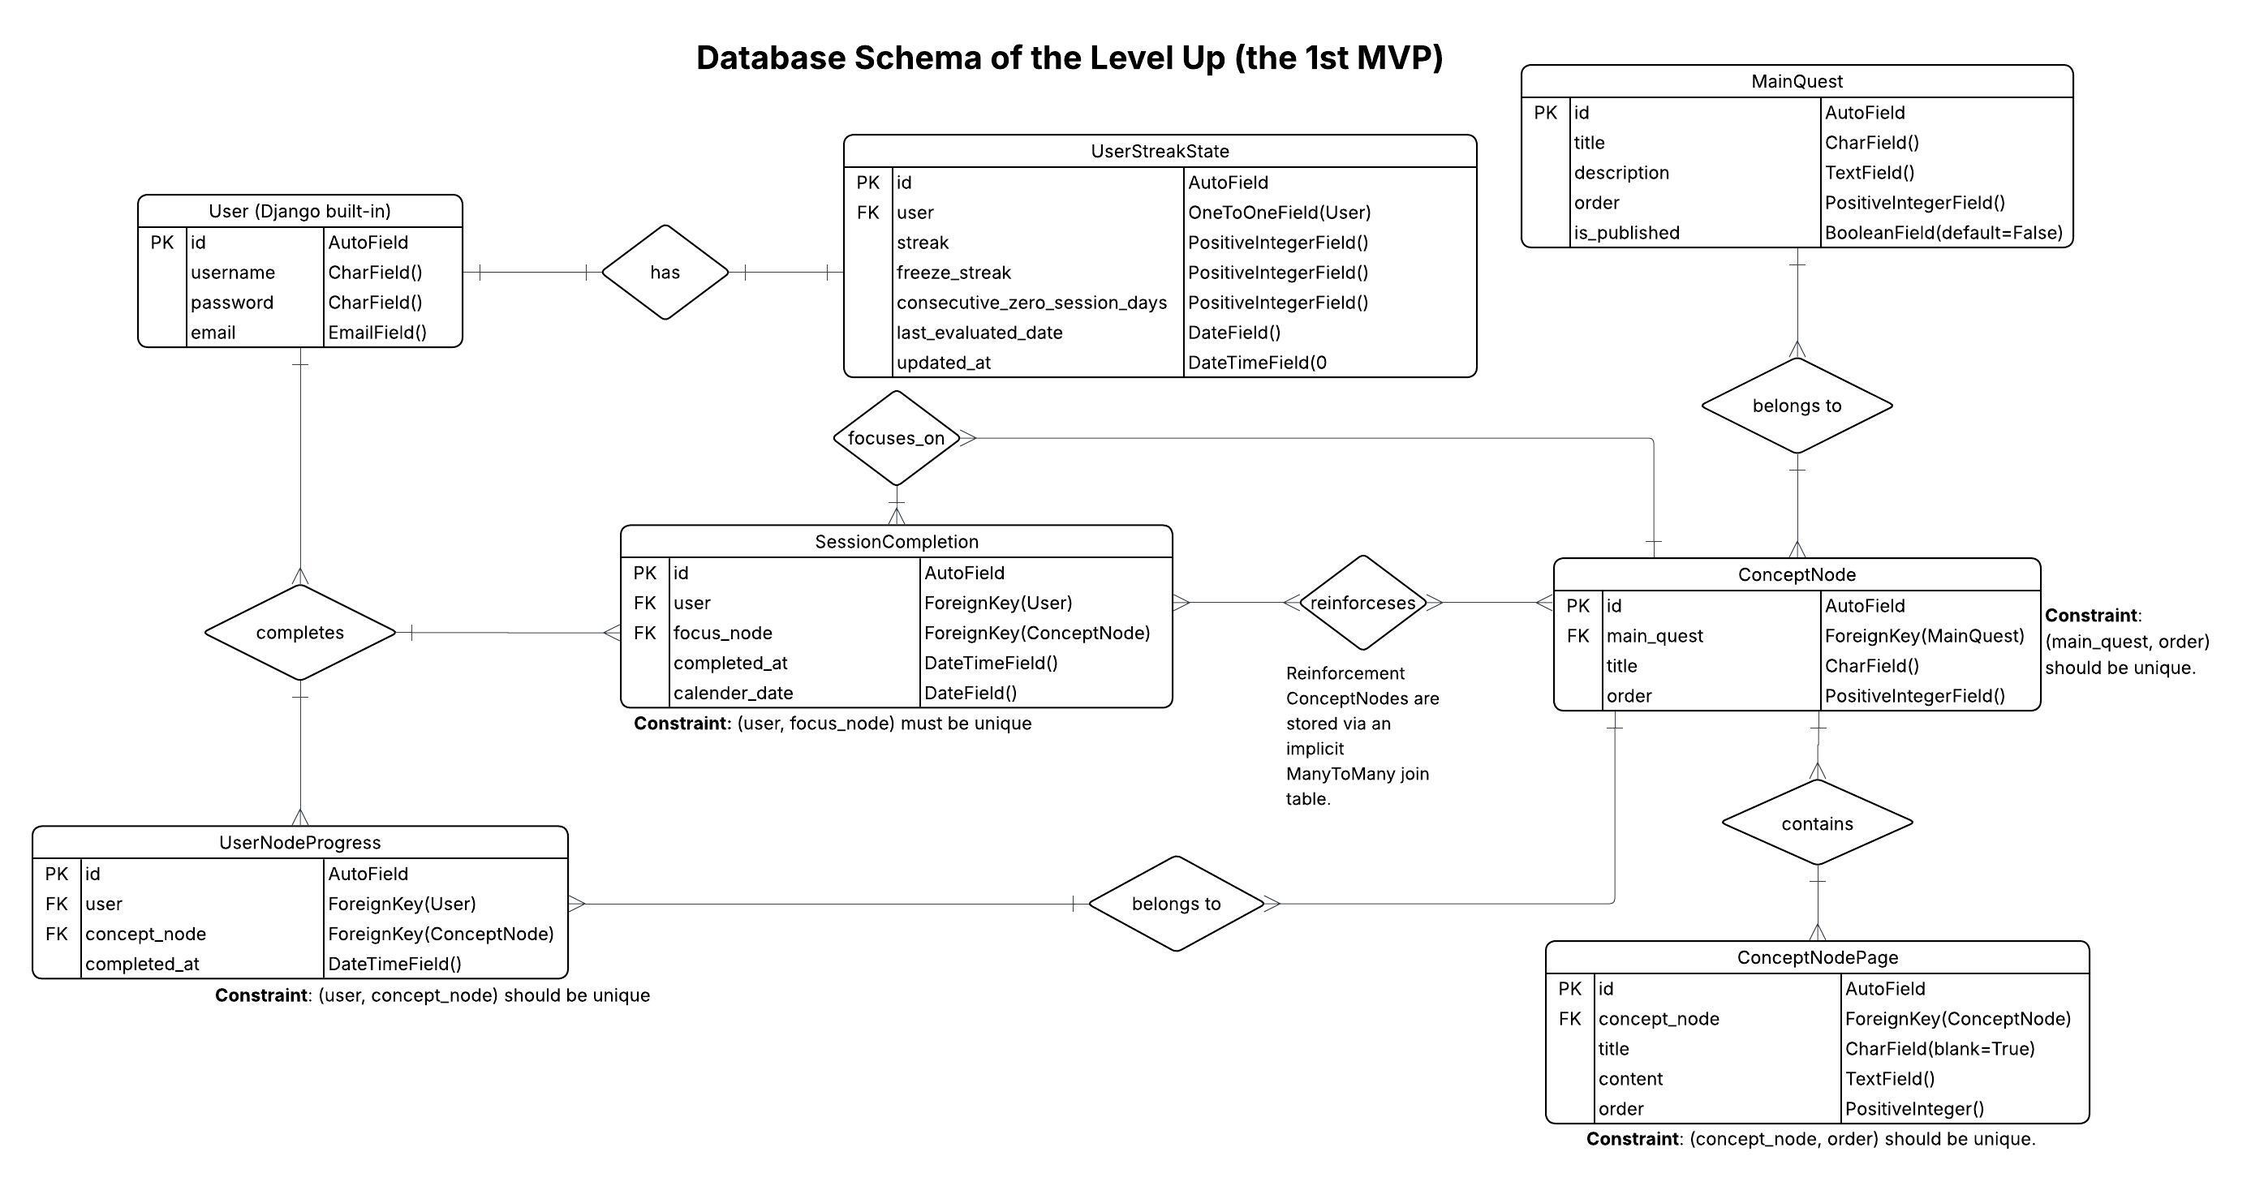
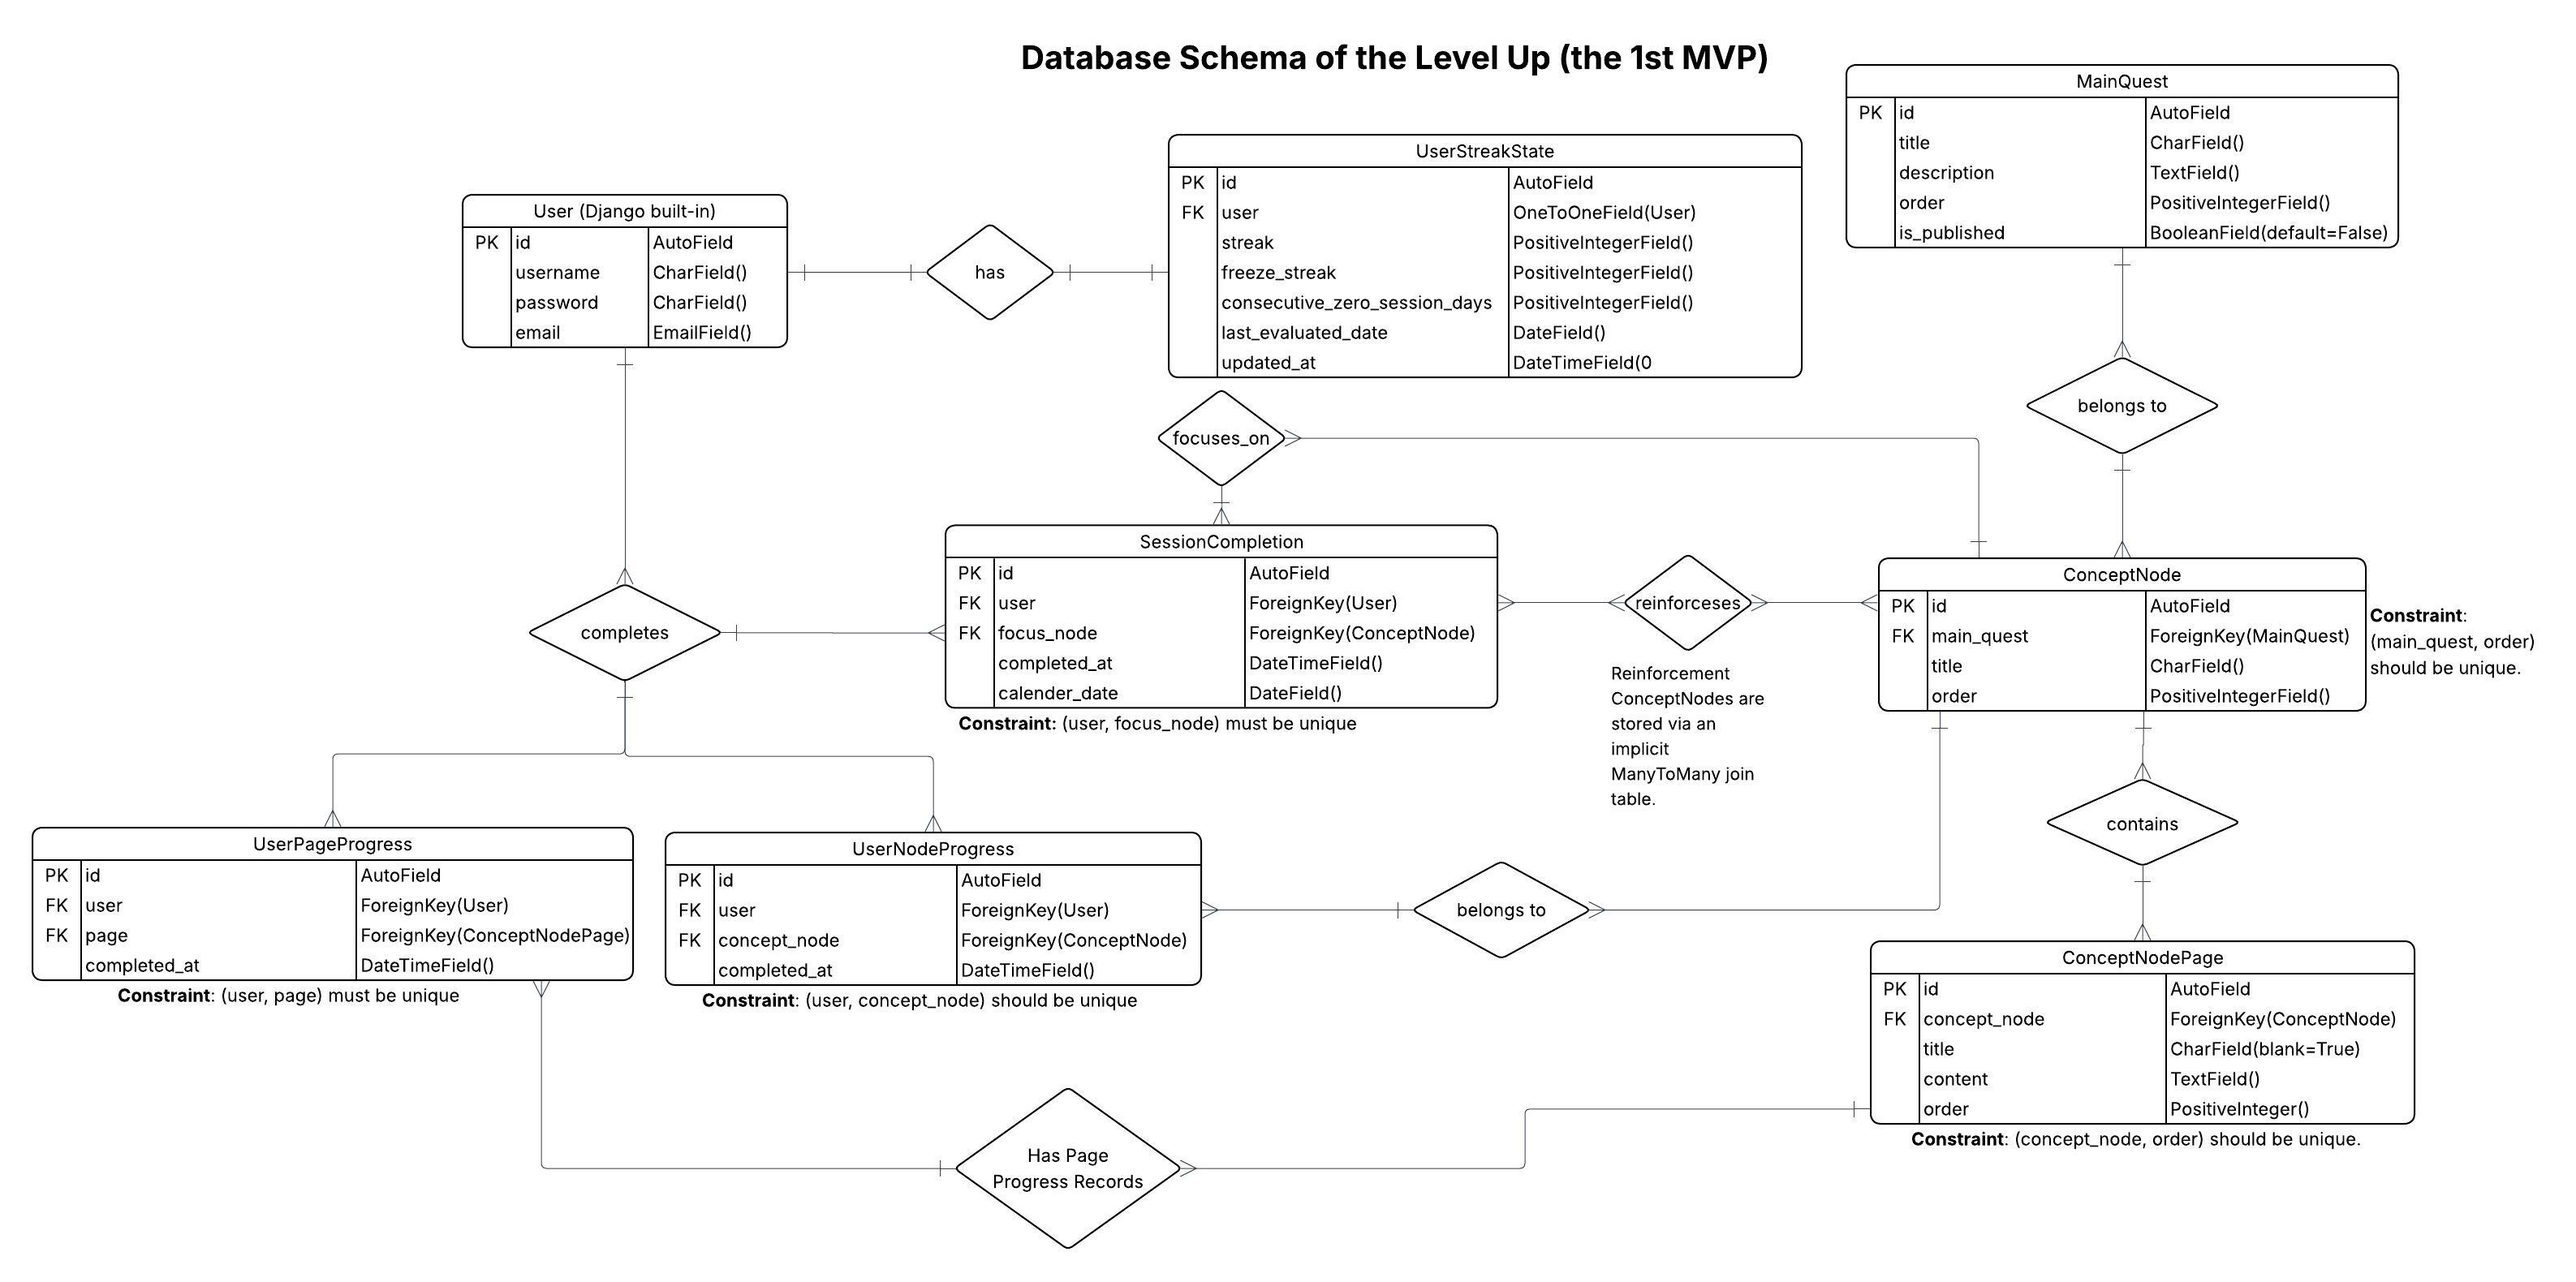
feat: add UserPageProgress model and page completion service with docs

diff --git a/progress/services/page_progression.py b/progress/services/page_progression.py
@@ -1,0 +1,62 @@
+from django.utils import timezone
+from django.db import transaction
+
+from content.models import ConceptNodePage
+from progress.models import  UserPageProgress, UserNodeProgress
+
+
+@transaction.atomic
+def complete_page(user, page_id):
+    """
+    Marks a ConceptNodePage as completed for a user.
+
+    Steps:
+    1. Validate the page exists.
+    2. Create a UserPageProgress record (if not already present).
+    3. Check whether all pages of the ConceptNode are completed.
+    4. If yes, create UserNodeProgress.
+    """
+
+    page = ConceptNodePage.objects.select_related("concept_node").get(id=page_id)
+
+    # Prevent duplicate completion
+    progress, created = UserPageProgress.objects.get_or_create(
+        user=user,
+        page=page,
+        defaults={"completed_at": timezone.now()}
+    )
+
+    if not created:
+        return {
+            "status": "already_completed",
+            "node_completed": False
+        }
+
+    concept_node = page.concept_node
+
+    total_pages = ConceptNodePage.objects.filter(
+        concept_node=concept_node
+    ).count()
+
+    completed_pages = UserPageProgress.objects.filter(
+        user=user,
+        page__concept_node=concept_node
+    ).count()
+
+    node_completed = False
+
+    if completed_pages == total_pages:
+
+        UserNodeProgress.objects.get_or_create(
+            user=user,
+            concept_node=concept_node,
+            defaults={"completed_at": timezone.now()}
+        )
+
+        node_completed = True
+
+    return {
+        "status": "page_completed",
+        "node_completed": node_completed,
+        "concept_node_id": concept_node.id
+    }

diff --git a/progress/migrations/0005_userpageprogress.py b/progress/migrations/0005_userpageprogress.py
@@ -1,0 +1,29 @@
+# Generated by Django 6.0 on 2026-03-15 08:29
+
+import django.db.models.deletion
+from django.conf import settings
+from django.db import migrations, models
+
+
+class Migration(migrations.Migration):
+
+    dependencies = [
+        ('content', '0001_initial'),
+        ('progress', '0004_alter_sessioncompletion_unique_together'),
+        migrations.swappable_dependency(settings.AUTH_USER_MODEL),
+    ]
+
+    operations = [
+        migrations.CreateModel(
+            name='UserPageProgress',
+            fields=[
+                ('id', models.BigAutoField(auto_created=True, primary_key=True, serialize=False, verbose_name='ID')),
+                ('completed_at', models.DateTimeField(auto_now_add=True)),
+                ('page', models.ForeignKey(on_delete=django.db.models.deletion.CASCADE, to='content.conceptnodepage')),
+                ('user', models.ForeignKey(on_delete=django.db.models.deletion.CASCADE, to=settings.AUTH_USER_MODEL)),
+            ],
+            options={
+                'constraints': [models.UniqueConstraint(fields=('user', 'page'), name='unique_user_page_progress')],
+            },
+        ),
+    ]

diff --git a/progress/models.py b/progress/models.py
@@ -3,6 +3,28 @@ from django.db import models
 # Create your models here.
 from django.contrib.auth.models import User # Using Django's built-in User model
 from quests.models import ConceptNode
+from content.models import ConceptNodePage
+
+
+class UserPageProgress(models.Model):
+    '''This model tracks the progress of a user on a specific ConceptNodePage.'''
+
+    user = models.ForeignKey(User, on_delete=models.CASCADE)
+
+    page = models.ForeignKey(
+        ConceptNodePage,
+        on_delete=models.CASCADE
+    )
+
+    completed_at = models.DateTimeField(auto_now_add=True)
+
+    class Meta:
+        constraints = [
+            models.UniqueConstraint(
+                fields=["user", "page"],
+                name="unique_user_page_progress"
+            )
+        ]
 
 
 class UserNodeProgress(models.Model):

diff --git a/progress/admin.py b/progress/admin.py
@@ -1,7 +1,7 @@
 from django.contrib import admin
 
 # Register your models here.
-from .models import UserNodeProgress, SessionCompletion, UserStreakState
+from .models import UserPageProgress, UserNodeProgress, SessionCompletion, UserStreakState
 
 admin.site.register(UserNodeProgress)
 
@@ -22,3 +22,5 @@ class UserStreakStateAdmin(admin.ModelAdmin):
         "updated_at",
     )
     readonly_fields = ("updated_at",)
+
+admin.site.register(UserPageProgress)

diff --git a/content/models.py b/content/models.py
@@ -5,6 +5,9 @@ from quests.models import ConceptNode
 
 
 class ConceptNodePage(models.Model):
+    '''This model represents a page of content associated with a ConceptNode. 
+    Each ConceptNode can have multiple pages, and each page has an order to determine its sequence within the ConceptNode.'''
+
     concept_node = models.ForeignKey( 
         ConceptNode,
         on_delete=models.CASCADE,

diff --git a/docs/page_completion.md b/docs/page_completion.md
@@ -1,0 +1,134 @@
+# Page Completion Service - [complet_page(user, page_id)]
+<br>
+
+## Overview
+- The Page Completion Service is responsible for recording when a user completes a learning page and determining whether the completion of that page results in the completion of the corresponding Concept Node.
+
+- This service belongs to the progress domain because it modifies user progress state rather than learning content.
+
+- The service operates on the page level of the learning hierarchy and forms the first step of the progression pipeline.
+
+## Learning Hierarchy
+
+- User learning progression follows the structure:
+
+    User
+    ↓
+    ConceptNodePage
+    ↓
+    ConceptNode
+    ↓
+    MainQuest
+
+- Progress is recorded at two levels:
+    - Page level → recorded in UserPageProgress
+    - Node level → recorded in UserNodeProgress
+- Page completion therefore acts as the trigger for node completion checks.
+
+## Responsibilities
+
+- The Page Completion Service performs four responsibilities.
+
+<B>1. Validate Page Existence</B>
+
+    - The service ensures that the requested page exists in the content system before recording progress.
+
+    - This prevents invalid progress records from being created.
+
+<B>2. Record Page Completion</B>
+
+    - When a page is completed, a UserPageProgress record is created linking:
+
+        - the user
+
+        - the completed page
+
+        - the timestamp of completion
+
+A user can complete a page only once. Duplicate completions are ignored.
+
+<B>3. Evaluate Concept Node Completion</B>
+
+- After recording page completion, the service evaluates whether the user has now completed all pages belonging to the ConceptNode.
+
+- If all pages of the node are completed, the node is considered completed.
+
+<B>4. Record Concept Node Completion</B>
+
+- If the node is newly completed, a UserNodeProgress record is created.
+
+- This marks the concept as permanently completed for that user.
+
+- Node completion is therefore derived from page completion, not recorded independently.
+
+## Progression Rule
+
+- A ConceptNode is considered completed if and only if all of its pages have been completed by the user.
+
+- This rule ensures:
+
+    - sequential learning
+
+    - complete reading of all concept material
+
+    - deterministic progression.
+
+## Idempotency
+
+- The service is designed to be idempotent.
+
+- If a user attempts to complete a page that has already been completed:
+
+    - no duplicate progress record is created, the system simply returns the current completion state.
+
+- This guarantees safe retries in the event of network failures or repeated client requests.
+
+## Atomicity
+
+- Page completion and potential node completion are treated as a single atomic operation.
+
+- This ensures that the system never enters an inconsistent state where:
+
+    - a page is marked completed, but the node completion evaluation is not performed.
+
+## Scope Boundaries
+
+- The Page Completion Service intentionally limits its responsibilities.
+
+- It does not handle:
+
+    - session creation
+
+    - reinforcement selection
+
+    - streak updates
+
+    - unlocking logic
+
+    - frontend navigation.
+
+    - Those concerns belong to separate services.
+
+## Role in the Learning Pipeline
+
+- The Page Completion Service is the first step in the progression pipeline.
+
+- The broader learning flow is:
+
+        Page Completion
+                ↓
+        Concept Node Completion
+                ↓
+        Session Completion
+                ↓
+        Streak Evaluation
+
+- This separation keeps each component simple and ensures the system remains maintainable as the platform evolves.
+
+## Design Philosophy
+
+- The service follows the core architectural principle of the system:
+
+- Only irreversible learning actions are stored.
+
+- Page completion represents a permanent user action and therefore must be persisted. Higher-level learning states are derived from these stored facts.

diff --git a/docs/schema.md b/docs/schema.md
@@ -8,6 +8,8 @@
   - Represents a single mathematical concept
 - <B>ConceptNodePage</B>
   - Represents a Markdown-backed reading page
+- <B>UserPageProgress</B>
+  - Records that a user has completed a ConceptNodePage
 - <B>UserNodeProgress</B>
   - Records that a user has completed a ConceptNode
 - <B>SessionCompletion</B>
@@ -104,6 +106,54 @@
 
     <B>Why this relationship exists</B>:
     To support multi-page learning with sequential navigation.
+---------
+
+- <B>ConceptNodePage ↔ UserPageProgress</B>
+
+    - <B>Relationship type:</B> One-to-Many
+
+    - <B>Meaning</B>:
+    A ConceptNodePage can be completed by many users, and each UserPageProgress record belongs to exactly one user and one page.
+  
+    - <B>Why UserPageProgress exists</B>:
+    To record the fact "User X has completed Page Y".
+
+    - <B>Why page-level progress is necessary</B>:
+    ConceptNodes consist of multiple ordered pages.
+    Tracking progress only at the node level would make it impossible to:
+
+      - resume learning from the correct page
+
+      - enforce sequential page reading
+
+      - measure partial progress inside a node
+
+      UserPageProgress enables fine-grained progress tracking within a ConceptNode.
+
+    - <B>Relationship with ConceptNode</B>:
+
+      - Page completion contributes to node completion through the following hierarchy
+        User
+          ↓
+        UserPageProgress
+          ↓
+        ConceptNodePage
+          ↓
+        ConceptNode
+          ↓
+        UserNodeProgress
+
+    - A ConceptNode is considered completed only when all its pages are completed.
+    - At that point, the system may create a corresponding UserNodeProgress record.
+
+    - Important distinction:
+      - UserPageProgress records page-level completion
+      - UserNodeProgress records concept-level completion
+    - This separation allows the system to support:
+      - incremental learning
+      - multi-page concepts
+      - precise progress tracking.
+
 ---------
 
 - <B>ConceptNode → UserNodeProgress</B>
